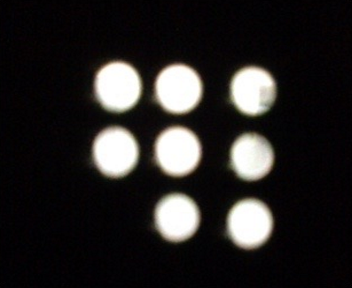
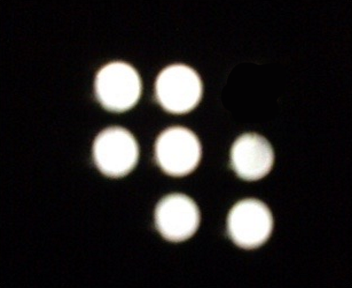
Altered stalk match

Changed region(s): [[0.625, 0.2188, 0.8125, 0.4375]]

diff --git a/IOS Tests/Assets/ImageScanner.cs b/IOS Tests/Assets/ImageScanner.cs
@@ -56,12 +56,12 @@ public class ImageScanner : MonoBehaviour
 
         public Matcher()
         {
-            matchTemplates.Add(new MatchTemplate("Tree", 1,
-                new int[] {
-                    1, 1, 1,
-                    1, 1, 0,
-                    0, 0, 1
-                }));
+            //matchTemplates.Add(new MatchTemplate("Tree", 1,
+            //    new int[] {
+            //        1, 1, 1,
+            //        1, 1, 0,
+            //        0, 0, 1
+            //    }));
 
             matchTemplates.Add(new MatchTemplate("Tree", 1,
                 new int[] {
@@ -120,7 +120,7 @@ public class ImageScanner : MonoBehaviour
 
             matchTemplates.Add(new MatchTemplate("Stalk", 5,
                 new int[] {
-                    1, 1, 1,
+                    1, 1, 0,
                     1, 1, 1,
                     0, 1, 1
                 }));
@@ -334,7 +334,8 @@ public class ImageScanner : MonoBehaviour
                     BlobCounter blobCounter = new BlobCounter();
 
                     float minSize = (23f / 352f) * width; 
-                    float maxSize = (58f / 352f) * width;
+                    //float maxSize = (58f / 352f) * width;
+                    float maxSize = (70f / 352f) * width;
 
                     blobCounter.FilterBlobs = true;
                     blobCounter.MinHeight = (int)minSize;
@@ -374,7 +375,9 @@ public class ImageScanner : MonoBehaviour
 
     WebCamTexture webCamTexture;
     byte[] colorBytes = new byte[0];
-    byte[] tempColorBytes = new byte[0];
+    int captureOctave = 0;
+       
+    //byte[] tempColorBytes = new byte[0];
 
     [SerializeField]
     public bool UseWebCam = true;
@@ -461,7 +464,7 @@ public class ImageScanner : MonoBehaviour
                 if (colorBytes.Length != TestImage.width * TestImage.height)
                 {
                     colorBytes = new byte[TestImage.width * TestImage.height];
-                    tempColorBytes = new byte[colorBytes.Length]; 
+                    //tempColorBytes = new byte[colorBytes.Length]; 
                 }
 
                 Color32[] colorData = TestImage.GetPixels32();
@@ -487,7 +490,7 @@ public class ImageScanner : MonoBehaviour
                 if (colorBytes.Length != webCamTexture.width * webCamTexture.height)
                 {
                     colorBytes = new byte[webCamTexture.width * webCamTexture.height];
-                    tempColorBytes = new byte[colorBytes.Length];
+                    //tempColorBytes = new byte[colorBytes.Length];
                 }
 
                 Color32[] colorData = webCamTexture.GetPixels32();
@@ -504,37 +507,49 @@ public class ImageScanner : MonoBehaviour
 
             //public void TryResolvePage(out string name, out int pageIndex, out float confidence)
 
-            matcher.Circles.Clear(); 
-
             int pageIndex = -1;
 
-            Array.Copy(colorBytes, tempColorBytes, colorBytes.Length); 
-            imageScanner.Match(0, CurrentTexture.width, CurrentTexture.height, tempColorBytes); // handle.AddrOfPinnedObject());
-            matcher.AddCircles(imageScanner); 
-            //countMax = Mathf.Max(countMax, imageScanner.Circles.Count);
-
-            Array.Copy(colorBytes, tempColorBytes, colorBytes.Length);
-            imageScanner.Match(50, CurrentTexture.width, CurrentTexture.height, tempColorBytes); // handle.AddrOfPinnedObject());
-            //countMax = Mathf.Max(countMax, imageScanner.Circles.Count);
-            matcher.AddCircles(imageScanner);
-
-            Array.Copy(colorBytes, tempColorBytes, colorBytes.Length);
-            imageScanner.Match(100, CurrentTexture.width, CurrentTexture.height, tempColorBytes); // handle.AddrOfPinnedObject());
-            //countMax = Mathf.Max(countMax, imageScanner.Circles.Count);
-            matcher.AddCircles(imageScanner);
-
-            string name;
-            float confidence;
-            int circleCount; 
-
-            matcher.TryResolvePage(out name, out pageIndex, out confidence, out circleCount); 
-
-            if (DebugText != null)
+            if (captureOctave == 0)
             {
-                DebugText.text = pageIndex.ToString(); //  matcher.Circles.Count.ToString();
+                matcher.Circles.Clear();
+
+                //Array.Copy(colorBytes, tempColorBytes, colorBytes.Length); 
+                imageScanner.Match(0, CurrentTexture.width, CurrentTexture.height, colorBytes); // handle.AddrOfPinnedObject());
+                matcher.AddCircles(imageScanner);
+                //countMax = Mathf.Max(countMax, imageScanner.Circles.Count);
+            }
+            else if (captureOctave == 1)
+            {
+                //Array.Copy(colorBytes, tempColorBytes, colorBytes.Length);
+                imageScanner.Match(50, CurrentTexture.width, CurrentTexture.height, colorBytes); // handle.AddrOfPinnedObject());
+                //countMax = Mathf.Max(countMax, imageScanner.Circles.Count);
+                matcher.AddCircles(imageScanner);
+            }
+            else if (captureOctave == 2)
+            {
+                //Array.Copy(colorBytes, tempColorBytes, colorBytes.Length);
+                imageScanner.Match(100, CurrentTexture.width, CurrentTexture.height, colorBytes); // handle.AddrOfPinnedObject());
+                //countMax = Mathf.Max(countMax, imageScanner.Circles.Count);
+                matcher.AddCircles(imageScanner);
             }
 
-            print("Image: " + CurrentTexture.width + "x" + CurrentTexture.height + ", Page name: " + name + ", Page index: " + pageIndex.ToString() + ", Circle Count: " + circleCount + ", Confidence: " + confidence); 
+            captureOctave = (captureOctave + 1) % 3;
+
+            if (captureOctave == 0)
+            {
+                string name;
+                float confidence;
+                int circleCount;
+
+                matcher.TryResolvePage(out name, out pageIndex, out confidence, out circleCount);
+
+                if (DebugText != null)
+                {
+                    DebugText.text = pageIndex.ToString(); //  matcher.Circles.Count.ToString();
+                }
+
+                print("Image: " + CurrentTexture.width + "x" + CurrentTexture.height + ", Page name: " + name + ", Page index: " + pageIndex.ToString() + ", Circle Count: " + circleCount + ", Confidence: " + confidence);
+            }
         }
         catch (Exception ex)
         {
